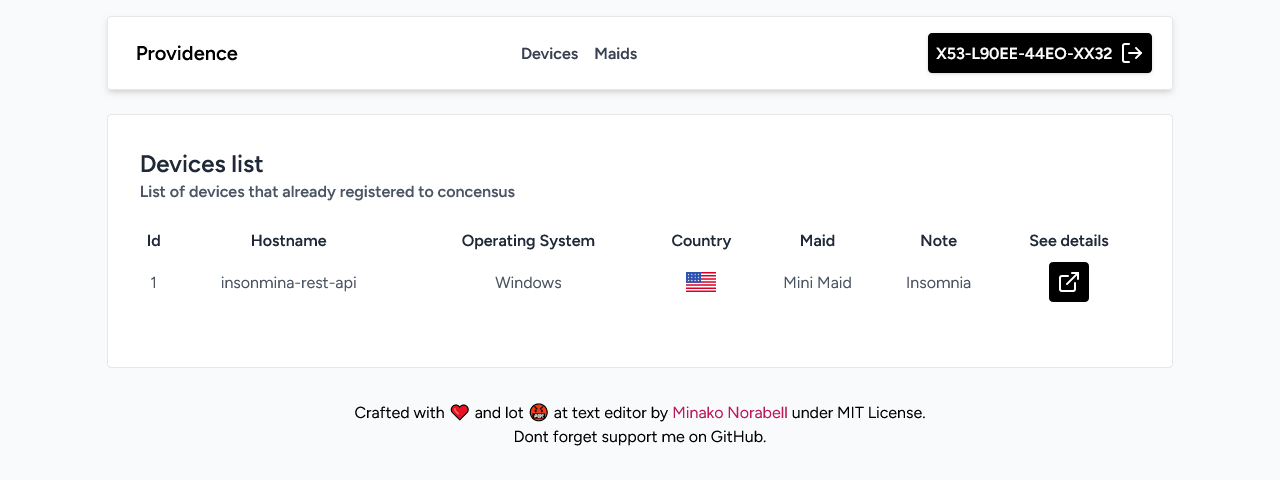
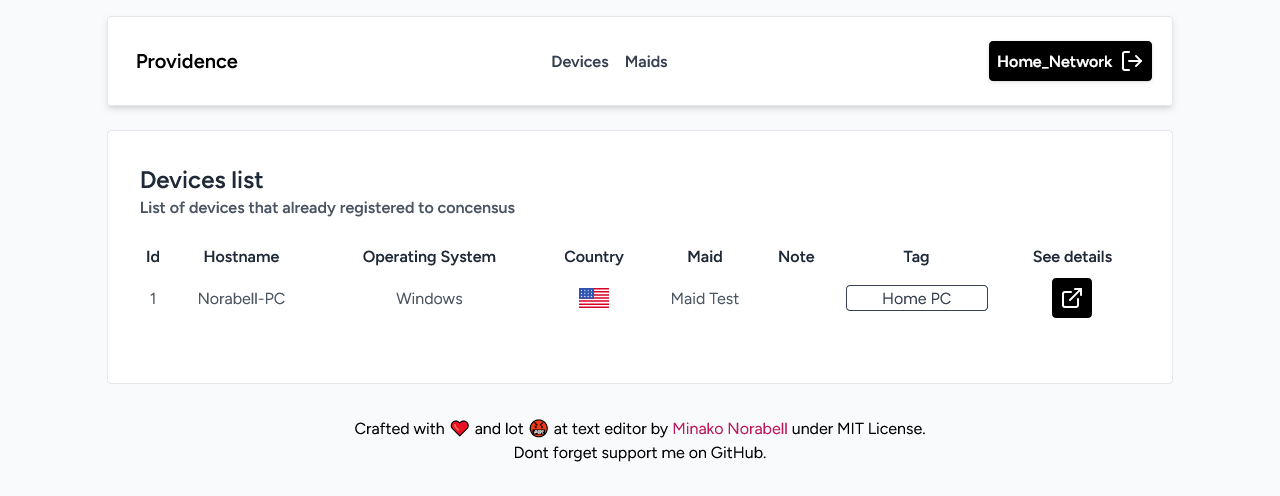
feature: device tags (#6)
* feature: device tagging

* docs: renew dashboard picture

diff --git a/resources/views/pages/dashboard/devices.blade.php b/resources/views/pages/dashboard/devices.blade.php
@@ -3,7 +3,7 @@
     <section class="flex flex-col">
         <h2 class="font-bold text-2xl text-gray-800"> Devices list</h2>
         <h3 class="font-semibold text-l text-gray-600"> List of devices that already registered to concensus </h3>
-        <table class="text-center my-6">
+        <table class="text-center my-6 table-auto">
             <tr class="text-gray-800">
                 <th>Id</th>
                 <th>Hostname</th>
@@ -11,6 +11,7 @@
                 <th>Country</th>
                 <th>Maid</th>
                 <th>Note</th>
+                <th>Tag</th>
                 <th>See details</th>
             </tr>
             @forelse ($devices as $device)
@@ -21,6 +22,17 @@
                     <td><img src="http://purecatamphetamine.github.io/country-flag-icons/3x2/{!! $device->country_code !!}.svg" width="30" class="mx-auto"/></td>
                     <td>{!! $device->maid()->get()->first()->name !!}</td>
                     <td>{!! $device->notes !!}</td>
+                    <td>
+                        <ul class="list-none mx-2">
+                            @foreach (json_decode($device->tags,true) as $tag)
+                                <ol>
+                                    <a href="/dashboard/devices?tags={!! $tag !!}">
+                                        <p class="mx-2 my-2 bg-white text-gray-700 border border-gray-700 rounded">{!! $tag !!}</p>
+                                    </a>
+                                </ol>
+                            @endforeach
+                        </ul>
+                    </td>
                     <td>
                         <a href="/dashboard/device/{!! $device->id !!}">
                             <button class="p-2 my-2 bg-black text-white rounded font-semibold">

diff --git a/app/Http/Controllers/DeviceController.php b/app/Http/Controllers/DeviceController.php
@@ -17,10 +17,16 @@ use Torann\GeoIP\Facades\GeoIP;
 class DeviceController extends Controller
 {
 
-    public function devices()
+    public function devices(Request $request)
     {
+        $device = Device::where('user_id','=',Auth::id());
+        if($request->has("tags")){
+            $tags = $request->input("tags");
+            $device = $device->whereJsonContains('tags',[urldecode($tags)]);
+        }
+
         return view('pages.dashboard.devices', [
-            "devices" => Device::where('user_id','=',Auth::id())->get(),
+            "devices" => $device->paginate(10),
         ]);
     }
 
@@ -53,6 +59,33 @@ class DeviceController extends Controller
             ->firstOrFail();
 
         $device->notes = $note;
+        $device->save();
+
+        return redirect("/dashboard/device/".$device->id);
+    }
+
+    public function device_tags(Request $request){
+        
+        $tags = $request->input('tags');
+        if(is_null($tags)){
+            $tags = "[]";
+        }
+
+        $tags = json_decode($tags, true);
+        if(!is_array($tags)){
+            return response("tags must be array",422);
+        }
+
+        $device_id = $request->input('device_id');
+        if(is_null($device_id)){
+            return response("not id can not empty",422);
+        }
+
+        $device = Device::where("id","=",$device_id)
+            -> where("user_id","=",Auth::id())
+            ->firstOrFail();
+
+        $device->tags = json_encode($tags);
         $device->save();
 
         return redirect("/dashboard/device/".$device->id);

diff --git a/resources/views/pages/dashboard/device.blade.php b/resources/views/pages/dashboard/device.blade.php
@@ -39,6 +39,13 @@
                     <input name="notes" class="my-2 bg-gray-100 rounded border-none focus:ring focus:ring-gray-300" value="{!! $device->notes !!}" />
                     <button type="submit" class="p-2 bg-black text-white text-bold rounded">Noted!</button>
                 </form>
+                <form action="/dashboard/device/{!! $device->id !!}/tags" method="POST">
+                    @csrf
+                    <label for="tags">Tags: </label>
+                    <input type="hidden" name="device_id" value="{!! $device->id !!}"/>
+                    <input name="tags" class="my-2 bg-gray-100 rounded border-none focus:ring focus:ring-gray-300" value="{{$device->tags}}" />
+                    <button type="submit" class="p-2 bg-black text-white text-bold rounded">Set</button>
+                </form>
                 <form method="POST" action="/dashboard/device/{{$device->id}}/delete" onsubmit="return confirm('Really, you want delete the device? this can not be undo after it.');">
                     @csrf
                     <button class="mt-4 px-3 py-2 bg-white border-2 border-red-400 text-red-400 rounded font-semibold" type="submit">

diff --git a/routes/web.php b/routes/web.php
@@ -55,6 +55,7 @@ Route::middleware('auth')->group(function () {
     Route::get('/dashboard/device/{id}/new-task',[TaskController::class,'create']);
     Route::post('/dashboard/device/{id}/task',[TaskController::class,'store']);
     Route::post('/dashboard/device/{id}/notes',[DeviceController::class,'device_notes']);
+    Route::post('/dashboard/device/{id}/tags', [DeviceController::class,'device_tags']);
 
     // task routes
     Route::get('/dashboard/task/{id}',[TaskController::class,'show']);

diff --git a/app/Http/Controllers/MaidController.php b/app/Http/Controllers/MaidController.php
@@ -17,9 +17,9 @@ class MaidController extends Controller
      */
     public function index()
     {
-        $maids = Maid::where("user_id",Auth::id())->forPage(1,10)->get();
+        $maids = Maid::where("user_id",Auth::id());
         return view('pages.dashboard.maids', [
-            "maids"=>$maids,
+            "maids"=>$maids->paginate(10),
         ]);
     }
 

diff --git a/database/migrations/2023_08_27_034330_create_devices_table.php b/database/migrations/2023_08_27_034330_create_devices_table.php
@@ -20,6 +20,7 @@ return new class extends Migration
             $table->string('hostname');
             $table->ipAddress('ip');
             $table->string('notes');
+            $table->json('tags')->default("[]");
             $table->json('abilities');
             $table->unsignedBigInteger('user_id');
             $table->timestamps();

diff --git a/app/Models/Device.php b/app/Models/Device.php
@@ -20,6 +20,7 @@ class Device extends Model
         'hostname',
         'ip',
         'notes',
+        'tags',
         'abilities',
         'user_id'
     ];
